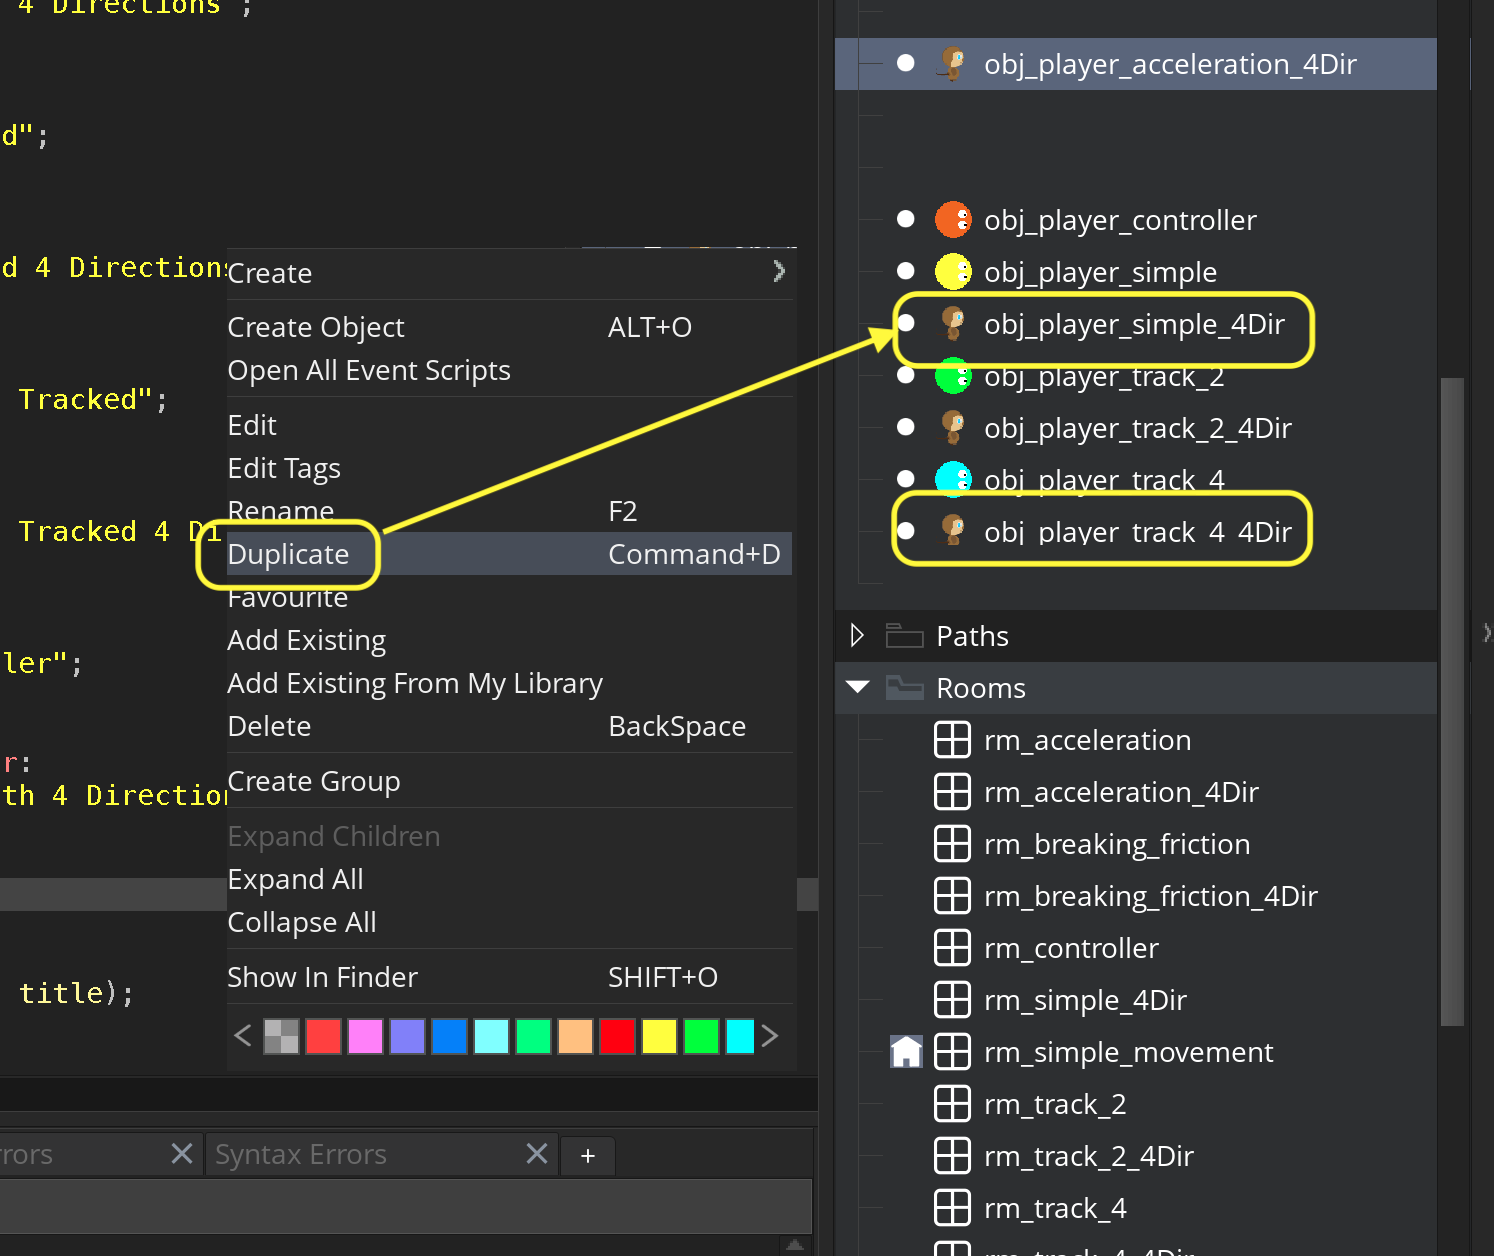
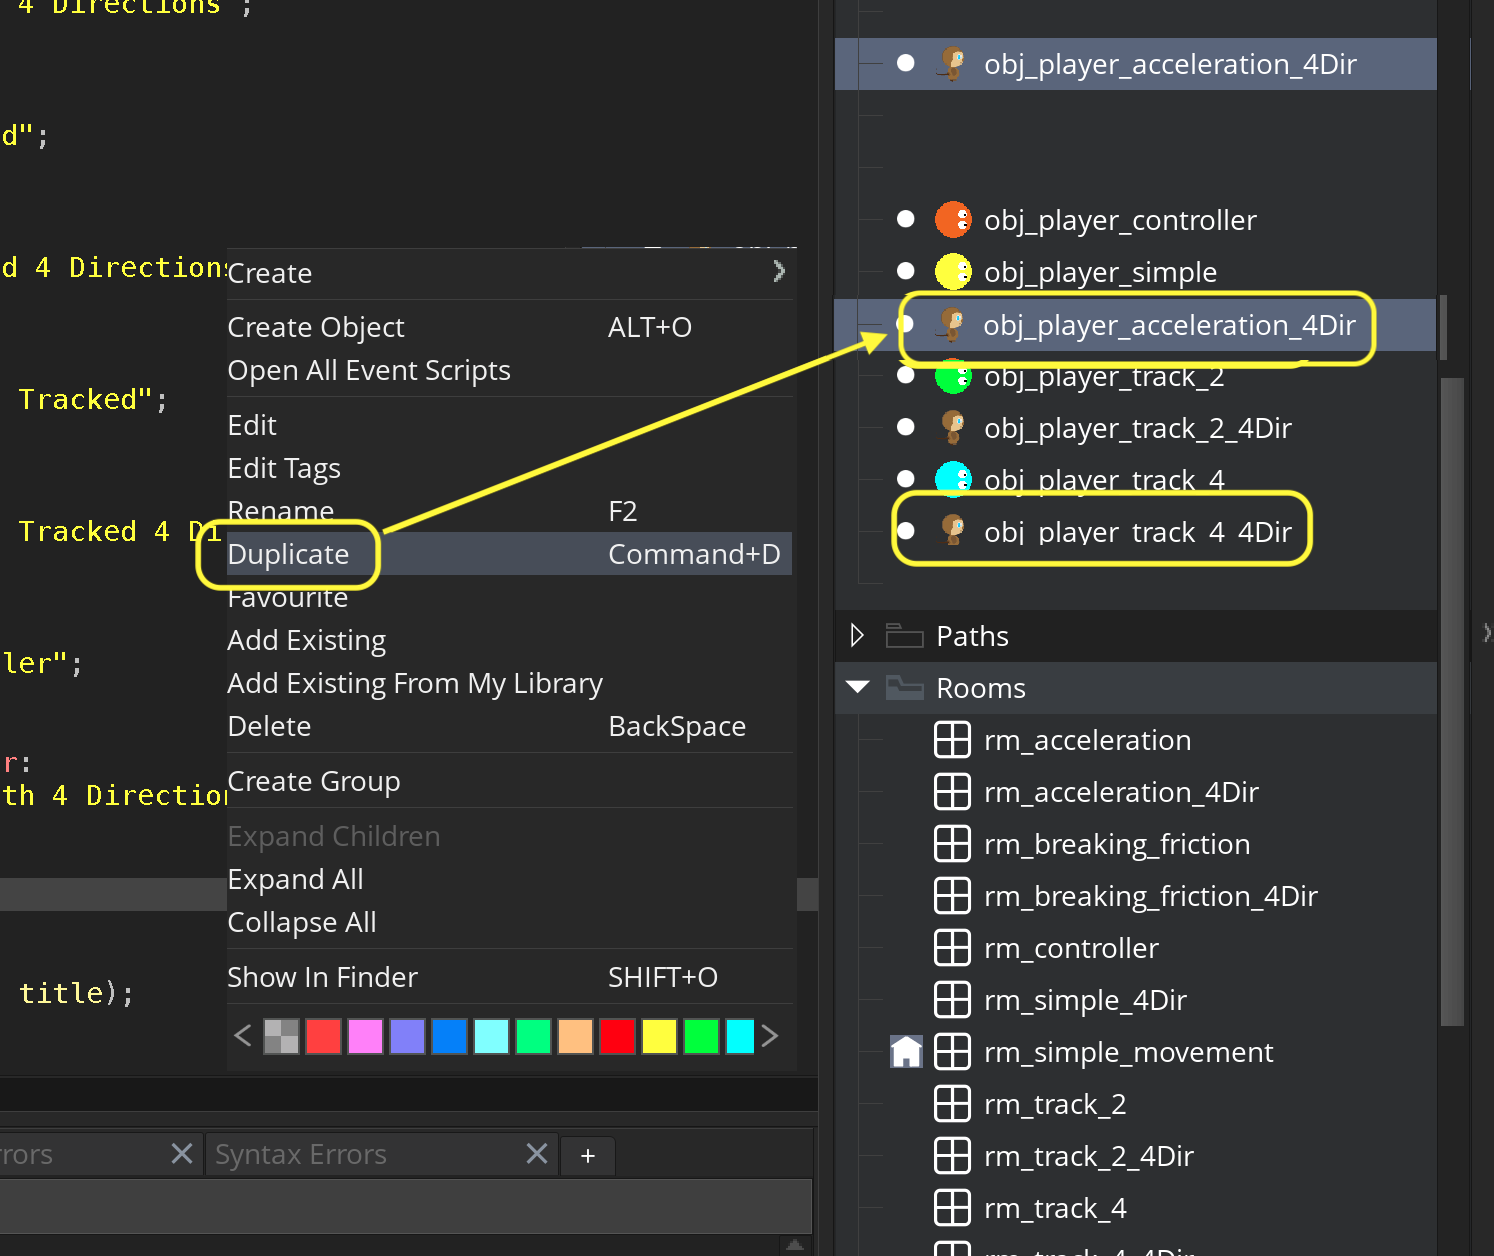
Update updating moving 4 directions

Changed region(s): [[0.5542, 0.2174, 0.9853, 0.3105]]

diff --git a/acceleration/README.md b/acceleration/README.md
@@ -17,6 +17,8 @@ Our player is at maximum speed right away.  There is no sense of them having a f
 
 Complete the [Four Keys Tracked with Animated Player](../four-4dir/README.md#user-content-four-keys-tracked-with-animated-player) walk through.  We will use this as our starting off point. 
 
+Duplicate **obj_player_track_4_4Dir** and name the object `obj_player_acceleratino_4Dir`.
+
 ![alt_text](images/dupePlayer.png)
 
 <img src="https://via.placeholder.com/500x2/45D7CA/45D7CA" alt="drawing" height="2px" alt = ""/>
